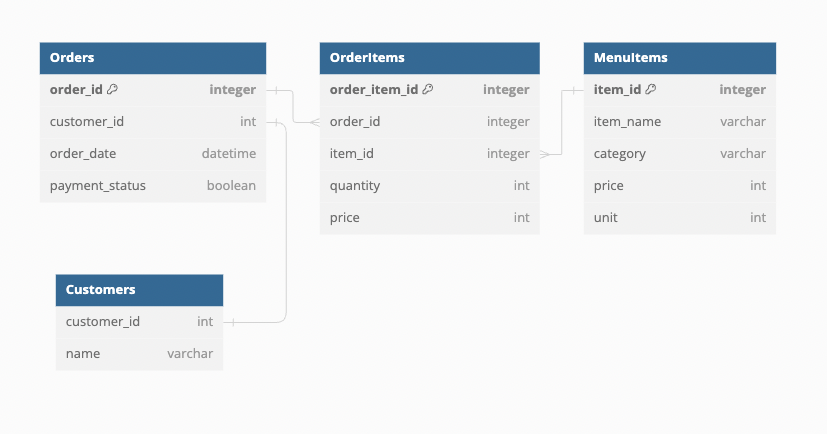
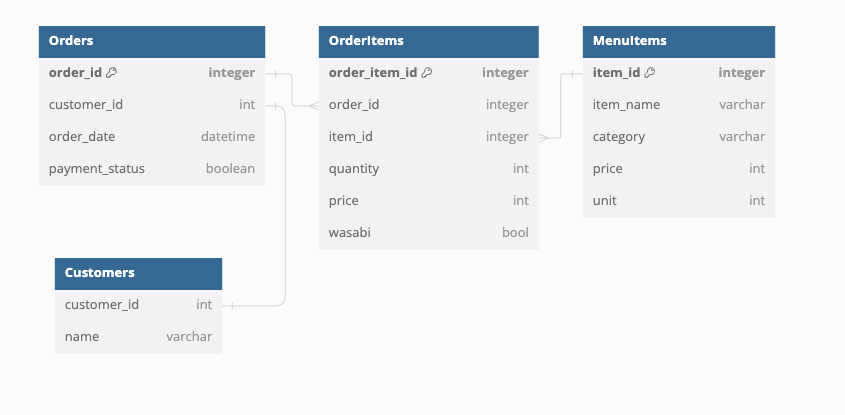
add wasabi

diff --git a/db_modeling_1/er.md b/db_modeling_1/er.md
@@ -1,6 +1,3 @@
-// Use DBML to define your database structure
-// Docs: https://dbml.dbdiagram.io/docs
-
 Table Orders {
   order_id integer [primary key]
   customer_id int
@@ -14,6 +11,7 @@ Table OrderItems {
   item_id integer
   quantity int
   price int
+  wasabi bool
 }
 
 Table MenuItems {
@@ -32,4 +30,5 @@ Table Customers {
 Ref: Orders.order_id < OrderItems.order_id
 Ref: MenuItems.item_id < OrderItems.item_id
 Ref: Orders.customer_id - Customers.customer_id
+
 
